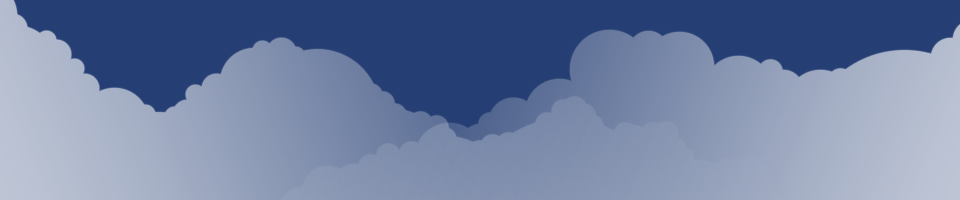
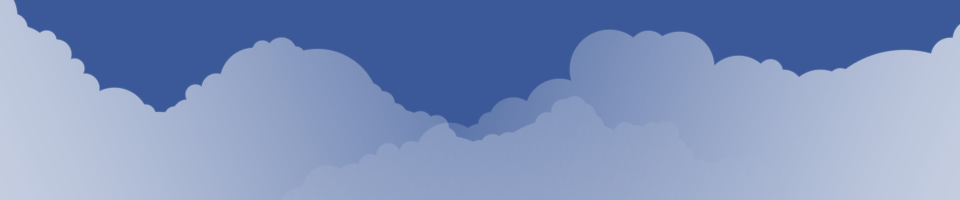
skin update, widget fixes

diff --git a/app/stylesheets/default_v3.sass b/app/stylesheets/default_v3.sass
@@ -75,13 +75,12 @@ p
   width: $ninesixty_grid_width
   z-index: 1
 
-
 // header ------------------------------ //
 #header
   border-bottom: 1px solid scale-color($primary-tab-off, $lightness: $tab-border-lightness)
   margin-bottom: 20px
   background-color: $primary-bg-color
-  background-image: image_url("skin/bg-header.gif")
+  background-image: $header-image
   background-position: bottom left
   background-repeat: no-repeat
   height: 130px
@@ -91,13 +90,30 @@ p
   #site-name-wrap
     display: block
     position: absolute
-    top: 10px
-    left: 10px
+    top: $site-name-y-position
+    left: $site-name-x-position
     #site-name
-      color: $primary-bg-color
+      // if site name is an image
+      background-image: $site-name-image
+      background-position: top left
+      background-repeat: no-repeat
+      // if site name is just text
+      color: $site-name-text-color
       display: block
+      // dimensions
+      height: $site-name-height
+      width: $site-name-width
+      // to hide text
+      text-indent: $hide-text
   #site-sponsor
-    display: none
+    background-image: $sponsor-image
+    background-position: top left
+    background-repeat: no-repeat
+    display: $sponsor-hide
+    top: $sponsor-y-position
+    left: $sponsor-x-position
+    height: $sponsor-height
+    width: $sponsor-width
 
 // Primary Navigation
 #primary-navigation
@@ -355,6 +371,18 @@ p
 
 // List of Items
 .item-list-wrap
+  // bulleted list
+  .bullet-list
+    ul
+    li
+      display: list-item
+      margin: 0
+      margin-left: $ninesixty_gutter_width
+      padding: ($ninesixty_gutter_width / 2) 0
+      line-height: 150%
+      list-style-type: disc
+      list-style-position: outside
+  // generic list wrap
   .item-list
     li
       border-bottom: 1px solid scale-color($primary-bg-color, $lightness: -10%)
@@ -695,6 +723,16 @@ p
     border-top-width: 0
     padding: $ninesixty_gutter_width / 2
     text-align: center
+  .email-widget
+    padding-top: $ninesixty_gutter_width / 2
+    padding-right: 2px
+    margin-bottom: $ninesixty_gutter_width / 2
+    input
+      padding: 0
+      margin: 0
+      border: 1px inset #CCC
+      width: 100%
+      height: 20px
 
 // Bookmarklet Styles //
 .bookmarklet
@@ -888,10 +926,6 @@ p
         padding-top: 4px
       .mod-flag-wrap
         float: right
-
-// Post Comment
-
-        
 
 // Permalink
 #link-to-item

diff --git a/app/stylesheets/skin.sass b/app/stylesheets/skin.sass
@@ -1,7 +1,7 @@
-// News Cloud Default Skin #1 ----------------------------- //
+// NewsCloud Default Skin #1 ------------------------------ //
 //
 // Site Skin Variables ------------------------------------ //
-//
+// 
 // Colors --------------------------------- //
 // Background Colors
 $primary-bg-color: #FFFFFF
@@ -24,13 +24,13 @@ $secondary-link-color: #2462E2
 $tertiary-link-color: #2462E2 
 $link-hover-lightness: -50%
 // Tab Colors
-$primary-tab-off: $secondary-bg-color
-$primary-tab-on: $primary-bg-color
+$primary-tab-off: #3B5998
+$primary-tab-on: #FFFFFF
 $tab-border-lightness: -35%
 // Button Colors
-$primary-btn: $secondary-bg-color
-$secondary-btn: #2462E2
-$tertiary-btn: #ff00ff
+$primary-btn: #3B5998
+$secondary-btn: #3B5998
+$tertiary-btn: #3B5998
 
 // Fonts & Text Sizes --------------------- //
 // Header Font
@@ -40,13 +40,42 @@ $primary-body-font: lucida grande, tahoma, verdana, arial, "san-serif"
 $primary-body-size: 12px
 $primary-line-height: 150%
 
-// System Skin Options ------------------------------------ //
+// Header / Logo / Sponsor -------------------------------- //
+//
+// Header --------------------------------- //
+$header-image: image_url("skin/bg-header.gif")
+
+// Site Name ------------------------------ //
+$site-name-image: image_url("skin/header-logo.png")
+// Logo Position
+$site-name-y-position: 50px
+$site-name-x-position: 50px
+// Logo Dimensions
+$site-name-height: 60px
+$site-name-width: 300px
+// Logo Text Options
+$site-name-text-color: #FFF
+// Logo Text Hide (-9999px or 0px)
+$hide-text: -9999px
+
+// Sponsor -------------------------------- //
+$sponsor-image: image_url("skin/sponsor.png")
+// display - none or block
+$sponsor-hide: none
+// Sponsor Position
+$sponsor-y-position: 0
+$sponsor-x-position: 0
+// Sponsor Dimensions
+$sponsor-height: 0
+$sponsor-width: 0
+
+// System Options ----------------------------------------- //
 // Message Flash Variables ---------------- //
 $flashErrorBorder: 2px solid #640000
-$flashErrorBG: #bc0b0b
+$flashErrorBG: #BC0B0B
 $flashSuccessBorder: 2px solid #296003
-$flashSuccessBG: #54be0d
+$flashSuccessBG: #54BE0D
 $flashNoticeBorder: 2px solid #0B5B9E
-$flashNoticeBG: #3b91ae
-$flashWarningBorder: 2px solid #b46a06
-$flashWarningBG: #f79410
+$flashNoticeBG: #3B91AE
+$flashWarningBorder: 2px solid #B46A06
+$flashWarningBG: #F79410
